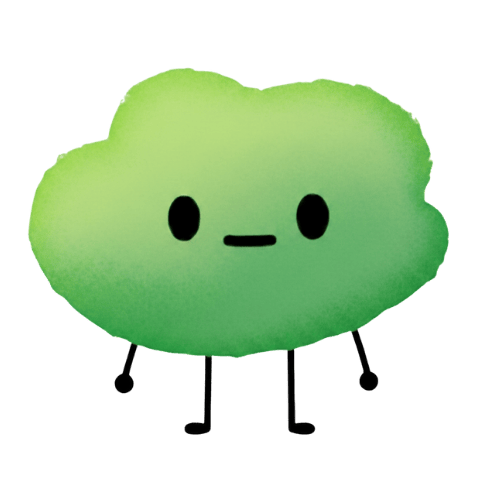
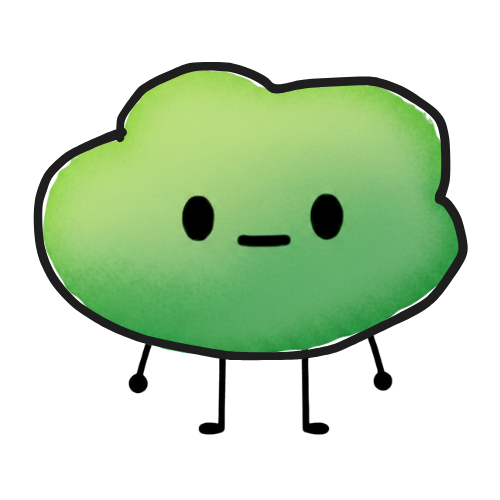
luma name and q1 done

Changed region(s): [[0.03, 0.12, 0.96, 0.87], [0.54, 0.39, 0.69, 0.51], [0.33, 0.39, 0.51, 0.51]]

diff --git a/src/app/api/luma/check-email/route.ts b/src/app/api/luma/check-email/route.ts
@@ -1,0 +1,112 @@
+import { NextRequest, NextResponse } from 'next/server'
+
+// Hardcoded list of Luma attendees for Wednesday event
+// TODO: Replace this with your actual Luma attendee list
+const LUMA_ATTENDEES: Record<string, string> = {
+  // Format: 'email@example.com': 'First Name',
+  'meow': 'HelenTest',
+  'ade.teleola@gmail.com': 'Teleola',
+  'annachangji@gmail.com': 'Anna',
+  'anunath096@gmail.com': 'Anu',
+  'apaar186@gmail.com': 'Apaar',
+  'bahatidamien5@gmail.com': 'Bahati',
+  'balvinn@gmail.com': 'Balvinn',
+  'benparada23@gmail.com': 'Ben',
+  'betelhem.l.a@gmail.com': 'Betty',
+  'bleung9@gmail.com': 'Bosco',
+  'bryan.chang@sap.com': 'Bryan',
+  'chidera.maduka@gmail.com': 'Christopher',
+  'chikkistepper@gmail.com': 'Chikodili',
+  'cibichess@gmail.com': 'Cibi',
+  'cjeon94@gmail.com': 'CJ',
+  'codons.wording06@icloud.com': 'Ved',
+  'daisyle2510@gmail.com': 'Daisy',
+  'daraakinwumi@gmail.com': 'Dara',
+  'david.an251@gmail.com': 'David',
+  'david120wang@gmail.com': 'Davie',
+  'dike.dominic@gmail.com': 'Austin',
+  'eswanni16@gmail.com': 'Esha',
+  'foluwa007@icloud.com': 'Foluwa',
+  'francisaldel@gmail.com': 'Francis',
+  'giselle.ghaffari@gmail.com': 'Giselle',
+  'hjanday01@gmail.com': 'Harpreet',
+  'irisguopm@gmail.com': 'Iris',
+  'itsaziamery@gmail.com': 'Azia',
+  'ivanchau11@gmail.com': 'Ivan',
+  'jessieinto@hotmail.com': 'Jessie',
+  'jiangzihaoalex@gmail.com': 'Zihao',
+  'johnny.libenzon329@gmail.com': 'Johnny',
+  'julian.tse1997@hotmail.com': 'Julian',
+  'kaihlee8@gmail.com': 'Kai',
+  'kaivalya.gandhi@gmail.com': 'Kai',
+  'karanarjunb@gmail.com': 'Karan',
+  'kat.p28@gmail.com': 'Katya',
+  'korayem@ready4vc.com': 'Ahmed',
+  'likaatan10@gmail.com': 'Lika',
+  'luciazhang981@gmail.com': 'Lucia',
+  'm.razavitoussi@gmail.com': 'Melody',
+  'mcneely.tom@gmail.com': 'Tom',
+  'mila.kh@gmail.com': 'Mila',
+  'muhammad.mohsin2013@gmail.com': 'Mo',
+  'nadiahle@gmail.com': 'Nadia',
+  'newton@epropel.ca': 'Newton',
+  'ngoqbrian@gmail.com': 'Brian',
+  'nguyeenteresa@gmail.com': 'Teresa',
+  'nino@immitracker.app': 'Nino',
+  'ozaibak@gmail.com': 'Omar',
+  'panayiote7327@gmail.com': 'Pano',
+  'preshavtadak@gmail.com': 'Precious',
+  'rinnmaximus@gmail.com': 'Rinn',
+  'roxy@roxyshi.com': 'Roxy',
+  'sarali.for@gmail.com': 'SaraLi',
+  'sarmad.ahmad1@gmail.com': 'Sarmad',
+  'sarmilans@gmail.com': 'Milan',
+  'sefunmi@joincolab.io': 'Sefunmi',
+  'sethi.ishmeet@gmail.com': 'Ishmeet',
+  'shaiyankhan@gmail.com': 'Shaiyan',
+  'sherryzxning@gmail.com': 'Sherry',
+  'shopnilrahman82@gmail.com': 'Shopnil',
+  'somindylee@gmail.com': 'Mindy',
+  'sophia11you@gmail.com': 'Sophia',
+  't.shaheen4444@gmail.com': 'Tamer',
+  'triet.nguyen1607@icloud.com': 'Triet',
+  'umai.balendra@gmail.com': 'Umai',
+  'vitalii@stanwith.me': 'Vitalii',
+  'vlc.francisaldel@gmail.com': 'Troy',
+  'wamfa6441@gmail.com': 'Wamfa',
+  'wzy950618@gmail.com': 'Zeyi',
+  'xu1302@gmail.com': 'Cherrol',
+  'yusuf@zevenue.com': 'Yusuf'
+  // Add your actual attendees here
+}
+
+export async function POST(request: NextRequest) {
+  try {
+    const { email } = await request.json()
+
+    if (!email) {
+      return NextResponse.json({ success: false, error: 'Email is required' }, { status: 400 })
+    }
+
+    const normalizedEmail = email.toLowerCase().trim()
+    const name = LUMA_ATTENDEES[normalizedEmail]
+
+    if (name) {
+      // Email found in Luma list
+      return NextResponse.json({
+        success: true,
+        found: true,
+        name: name
+      })
+    } else {
+      // Email not found
+      return NextResponse.json({
+        success: true,
+        found: false
+      })
+    }
+  } catch (error) {
+    console.error('Error in check-email endpoint:', error)
+    return NextResponse.json({ success: false, error: 'Internal server error' }, { status: 500 })
+  }
+}

diff --git a/src/components/quiz/QuizPersonalization.tsx b/src/components/quiz/QuizPersonalization.tsx
@@ -15,6 +15,7 @@ interface QuizPersonalizationProps {
 export default function QuizPersonalization({ form, onSubmit, isLoading, quizId }: QuizPersonalizationProps) {
   const [formData, setFormData] = useState<Record<string, string>>({})
   const [errors, setErrors] = useState<Record<string, string>>({})
+  const [isCheckingEmail, setIsCheckingEmail] = useState(false)
 
   const isWednesdayBouncer = quizId === 'wednesday-bouncer-quiz'
 
@@ -30,7 +31,7 @@ export default function QuizPersonalization({ form, onSubmit, isLoading, quizId 
     }
   }
 
-  const handleSubmit = () => {
+  const handleSubmit = async () => {
     // Validate required fields
     const newErrors: Record<string, string> = {}
 
@@ -46,7 +47,35 @@ export default function QuizPersonalization({ form, onSubmit, isLoading, quizId 
       return
     }
 
-    onSubmit(formData)
+    // For Wednesday bouncer quiz, check email against Luma database
+    if (isWednesdayBouncer && formData.email) {
+      setIsCheckingEmail(true)
+      try {
+        const response = await fetch('/api/luma/check-email', {
+          method: 'POST',
+          headers: { 'Content-Type': 'application/json' },
+          body: JSON.stringify({ email: formData.email })
+        })
+
+        const data = await response.json()
+
+        if (data.success && data.found) {
+          // Email found - add the name from Luma
+          const enrichedData = { ...formData, lumaName: data.name }
+          onSubmit(enrichedData)
+        } else {
+          // Email not found
+          setErrors({ email: 'Hmm, I don\'t see this email on the Luma list. Can you double-check?' })
+          setIsCheckingEmail(false)
+        }
+      } catch (error) {
+        console.error('Error checking email:', error)
+        // On error, allow them through anyway
+        onSubmit(formData)
+      }
+    } else {
+      onSubmit(formData)
+    }
   }
 
   return (
@@ -54,9 +83,9 @@ export default function QuizPersonalization({ form, onSubmit, isLoading, quizId 
       <div className={styles.personalizationContent}>
         {isWednesdayBouncer && (
           <div className={styles.bouncerIntro}>
-            <Image src="/bouncerblob.png" alt="Bouncer Blob" width={120} height={120} />
+            <Image src="/bouncerblob2.png" alt="Bouncer Blob" width={120} height={120} />
             <p className={styles.bouncerIntroText}>
-              I&apos;m Bouncer Blob, here to figure out whether you should actually get into Helen&apos;s event.
+              I&apos;m Bouncer Blob, here to figure out whether you should actually get into Helen&apos;s whatever the heck it is.
             </p>
           </div>
         )}
@@ -114,9 +143,9 @@ export default function QuizPersonalization({ form, onSubmit, isLoading, quizId 
         <button
           className={styles.personalizationButton}
           onClick={handleSubmit}
-          disabled={isLoading}
+          disabled={isLoading || isCheckingEmail}
         >
-          {isLoading ? 'Starting...' : 'Start My Story →'}
+          {isCheckingEmail ? 'Checking...' : isLoading ? 'Starting...' : 'Start My Story →'}
         </button>
       </div>
     </div>

diff --git a/src/components/quiz/QuizQuestion.tsx b/src/components/quiz/QuizQuestion.tsx
@@ -14,7 +14,7 @@ interface QuizQuestionProps {
   personalizationData?: Record<string, string> // For narrative quizzes - user's personalization inputs
 }
 
-export default function QuizQuestion({ config, questionIndex, onSelect, isLoading, adaptedText }: QuizQuestionProps) {
+export default function QuizQuestion({ config, questionIndex, onSelect, isLoading, adaptedText, personalizationData }: QuizQuestionProps) {
   const isWednesdayBouncer = config.id === 'wednesday-bouncer-quiz'
   const [visibleOptions, setVisibleOptions] = useState<number[]>([])
   const [selectedValue, setSelectedValue] = useState<string | null>(null)
@@ -140,11 +140,27 @@ export default function QuizQuestion({ config, questionIndex, onSelect, isLoadin
     return totalWithUser > 0 ? Math.round((countWithUser / totalWithUser) * 100) : 0
   }
 
+  // Helper to replace placeholders like {{lumaName}} with actual values
+  const replacePlaceholders = (text: string, data: Record<string, string>): string => {
+    let result = text
+    Object.entries(data).forEach(([key, value]) => {
+      const placeholder = `{{${key}}}`
+      result = result.replace(new RegExp(placeholder, 'g'), value)
+    })
+    return result
+  }
+
   // Get question text based on quiz type
   // Priority: adaptedText (for narrative) > text (for story-matrix/archetype) > baseScenario.coreSetup (fallback)
-  const questionText = adaptedText ||
+  let questionText = adaptedText ||
                       question.text ||
                       (question.baseScenario ? question.baseScenario.coreSetup : '')
+
+  // Replace placeholders with personalization data
+  if (personalizationData) {
+    questionText = replacePlaceholders(questionText, personalizationData)
+  }
+
   const timeMarker = question.baseScenario?.timeMarker
 
   // Split adapted text into paragraphs (for Bouncer Blob response + question)

diff --git a/src/app/api/quiz/adapt-narrative-scene/route.ts b/src/app/api/quiz/adapt-narrative-scene/route.ts
@@ -29,11 +29,14 @@ export async function POST(request: NextRequest) {
     // Special personality for Wednesday Bouncer quiz
     const isWednesdayBouncer = quizId === 'wednesday-bouncer-quiz'
 
-    // If no previous responses (first question), return base scenario as-is
+    // If no previous responses (first question), replace placeholders and return
     if (!previousResponses || previousResponses.length === 0) {
+      console.log('🎯 Q1 Personalization:', { personalizationData, baseScenario: baseScenario.coreSetup })
+      const personalizedText = replacePlaceholders(baseScenario.coreSetup, personalizationData)
+      console.log('✅ Q1 Result:', personalizedText)
       return NextResponse.json({
         success: true,
-        adaptedText: baseScenario.coreSetup,
+        adaptedText: personalizedText,
         timeMarker: baseScenario.timeMarker
       })
     }
@@ -128,7 +131,13 @@ Respond with ONLY the adapted scene text. No JSON, no explanations, just the ada
       }]
     })
 
-    const adaptedText = message.content[0].type === 'text' ? message.content[0].text.trim() : baseScenario.coreSetup
+    let adaptedText = message.content[0].type === 'text' ? message.content[0].text.trim() : baseScenario.coreSetup
+
+    // Remove wrapping quotation marks if AI added them
+    if ((adaptedText.startsWith('"') && adaptedText.endsWith('"')) ||
+        (adaptedText.startsWith("'") && adaptedText.endsWith("'"))) {
+      adaptedText = adaptedText.slice(1, -1).trim()
+    }
 
     return NextResponse.json({
       success: true,

diff --git a/src/lib/quizzes/wednesday-bouncer-quiz.ts b/src/lib/quizzes/wednesday-bouncer-quiz.ts
@@ -2,8 +2,8 @@ import { QuizConfig } from './types'
 
 export const wednesdayBouncerQuiz: QuizConfig = {
   id: 'wednesday-bouncer-quiz',
-  title: 'Are you really in?',
-  description: 'You need the address for Helen\'s event on Wednesday? Let\'s see if Bouncer Blob lets you in.',
+  title: 'Are you really in? 🎟 ',
+  description: 'You need the address for Helen\'s mingle session x mini launch right? Well first you\'ll have to see what Bouncer Blob thinks.',
   type: 'narrative', // Changed to narrative for conversational flow
 
   theme: {
@@ -55,7 +55,7 @@ export const wednesdayBouncerQuiz: QuizConfig = {
       baseScenario: {
         timeMarker: "Question 1",
         dimension: "timing",
-        coreSetup: 'All you need to do is answer truthfully. There are no right answers! The event starts at 5:45 and folks will start being told to leave latest by 8:30. When are you gonna show up?'
+        coreSetup: 'Hey {{lumaName}}, all you need to do is answer truthfully. There are no right answers! The event starts at 5:45 and folks will start being told to leave latest by 8:30. When are you gonna show up?'
       },
       options: [], // No predefined options - open-ended only
       allowCustomInput: true

diff --git a/src/components/quiz/QuizResults.tsx b/src/components/quiz/QuizResults.tsx
@@ -533,14 +533,14 @@ export default function QuizResults({ config, result, onRestart, onShowRecommend
                     </a>
                     , 71 Grange Ave #304
                   </p>
-                  <p><strong>Time:</strong> Wednesday 5:45 - 8:45, talk at 6:45</p>
+                  <p><strong>Time:</strong> Wednesday 5:45 - 8:45, try to come before 6:45 pls</p>
                 </div>
               </div>
 
               <div className={styles.wednesdayDetailsCard} style={{ marginTop: '20px' }}>
                 <h2 style={{ marginBottom: '16px', fontSize: '20px' }}>🚪 How to Get In</h2>
                 <p style={{ lineHeight: '1.8', marginBottom: '12px' }}>
-                  Look out for the red door, then go up 3 flights of stairs
+                  Look out for the red door, then go up 3 flights of stairs. Worry not, you will get an email beforehand too.
                 </p>
                 <h3 style={{ fontSize: '18px', marginTop: '20px', marginBottom: '12px' }}>Don't forget:</h3>
                 <p style={{ lineHeight: '1.8' }}>

diff --git a/src/lib/quizzes/all-quizzes-data.ts b/src/lib/quizzes/all-quizzes-data.ts
@@ -124,7 +124,7 @@ export const ALL_QUIZZES: QuizItem[] = [
   // LIFE QUIZZES
   {
     id: 'wednesday-bouncer-quiz',
-    title: 'Are you really in?',
+    title: 'Are you really in? 🎟 ',
     description: 'You need the address for Helen\'s event on Wednesday? Let\'s see if Bouncer Blob lets you in.',
     category: 'life',
     route: '/quiz/wednesday-bouncer-quiz',
